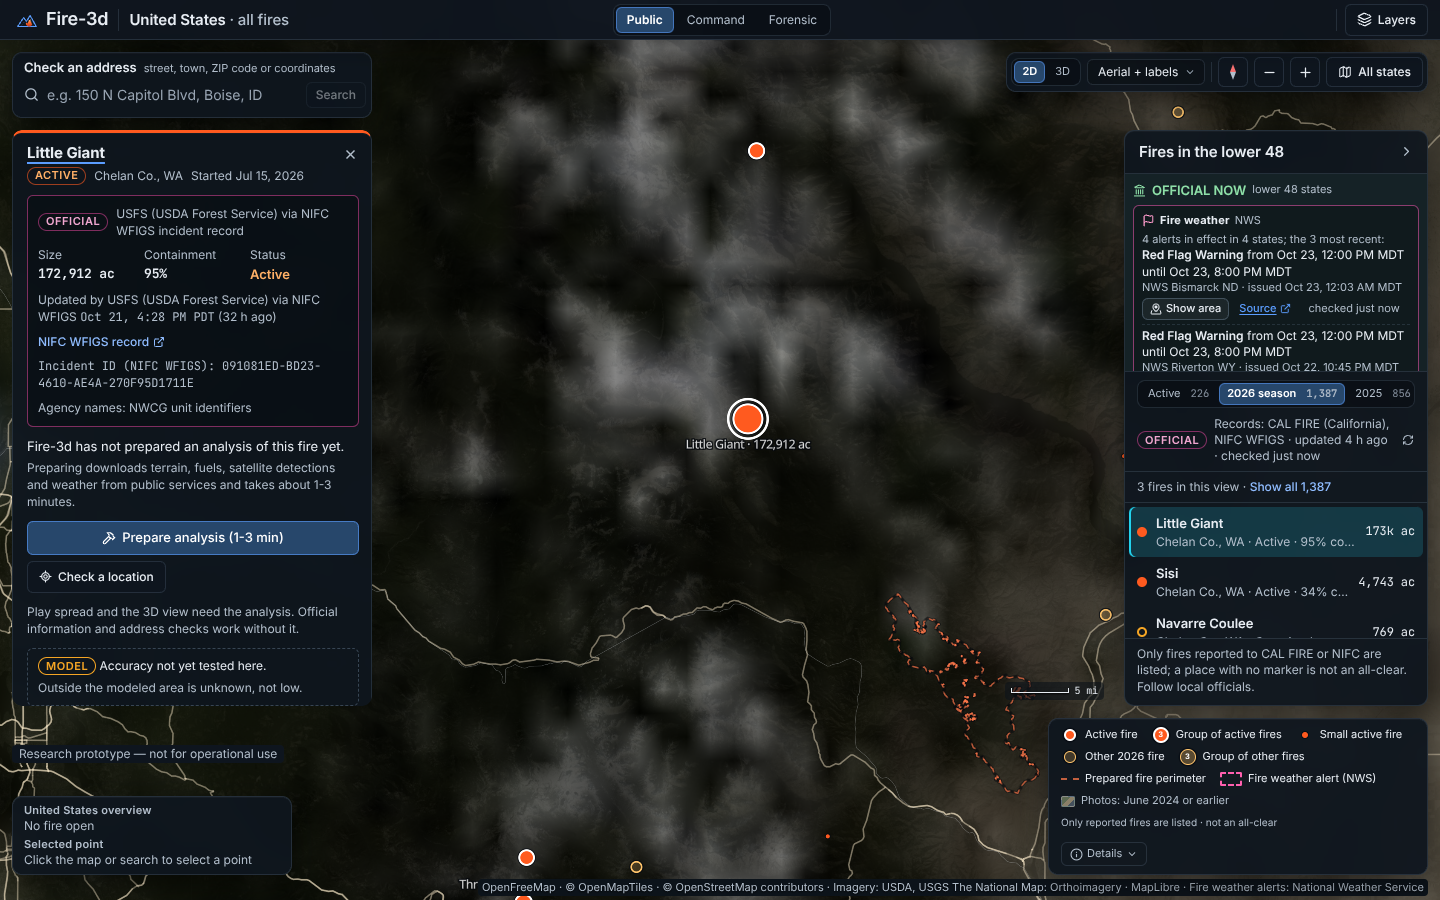
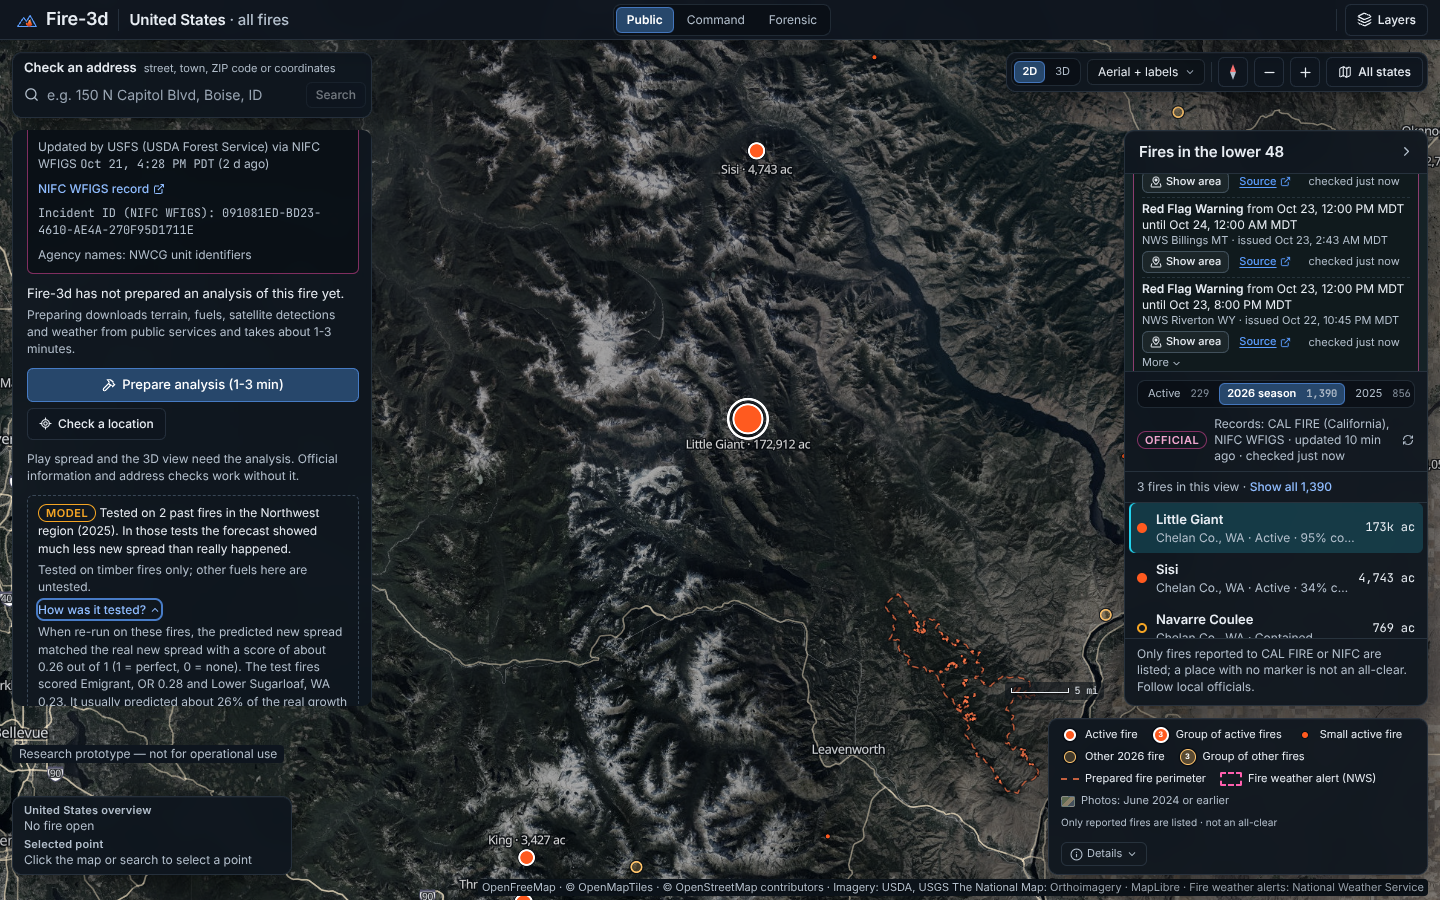
brief 3 integration: part 2 report (part2_done), progress, final screenshots
Claude-Session: https://claude.ai/code/session_016JQLLLPiy3zrdDeXcY1uZS

diff --git a/docs/redesign/progress/brief3-integration.md b/docs/redesign/progress/brief3-integration.md
@@ -89,10 +89,16 @@ Ports API 8716, Vite 5186. Scratch: session scratchpad `integration2/`. Only age
 - Final gates (before batch D): backend 990 passed; web typecheck 0, lint 55 (scene), 75 files 1,185 passed 2 skipped,
   build OK. API log so far: 793 GET, 0 non-GET. Key scan: 0 (scratch, tracked files, part-2 diffs).
 
+- d8205ee found in the browser: a fire-name search right after load said "No listed fire … matches" before the 2025
+  list arrived (now: the lists are still loading). Batches D/E: phones, Timber (OSCC) cards, Bee Haven, fixture-east,
+  Windy Deuce Analysis drawer (region caveats), Horse Gulch "How was it tested?" open, fire searches; a11y run (reduced
+  motion, 40 Tab stops 0 unnamed, roving list, How was it tested by keyboard, Escape returns focus, 0 non-GET).
+- Final: backend 990 passed; web typecheck 0, lint 55 (scene), 75 files 1,186 passed 2 skipped, build OK; check-time-api
+  0/0; API log 1,020 GET, 0 non-GET, 0 builds; key scan 0; 65 brief3-final screenshots, all viewed; servers stopped.
+- Report: docs/redesign/reports/brief3-integration.json key part2_done (top keys updated for part 2).
+
 ## Next
-- Docs: CONTRACT §14.4/§14.12.10 fold of contract3/validation.md + wording amendment, §14.2 503/same-name, §14.7 feed
-  time; SPEC §8.4 GSI + interim text, build gate 503, AccuracyFire; validation.md 10.11 6 days.
-- Verify end to end (screenshots brief3-final-*), gates, report part2_done.
+- Nothing left for part 2. Final verification: live national loop, one Prepare analysis, README rows (§14.13).
 
 
 ## Decisions (part 2)
@@ -106,4 +112,6 @@ Ports API 8716, Vite 5186. Scratch: session scratchpad `integration2/`. Only age
   Command (no 0.05 rounding: the fires' own scores are named next to it).
 
 ## Open problems (part 2)
+- None blocking. Known issues in the report (NIFC snapshot flip-flop, detached perimeter parts early in some replays,
+  ZIP "near" wording, Forensic shots time out under swiftshader, events.py ms fields not done).
 
